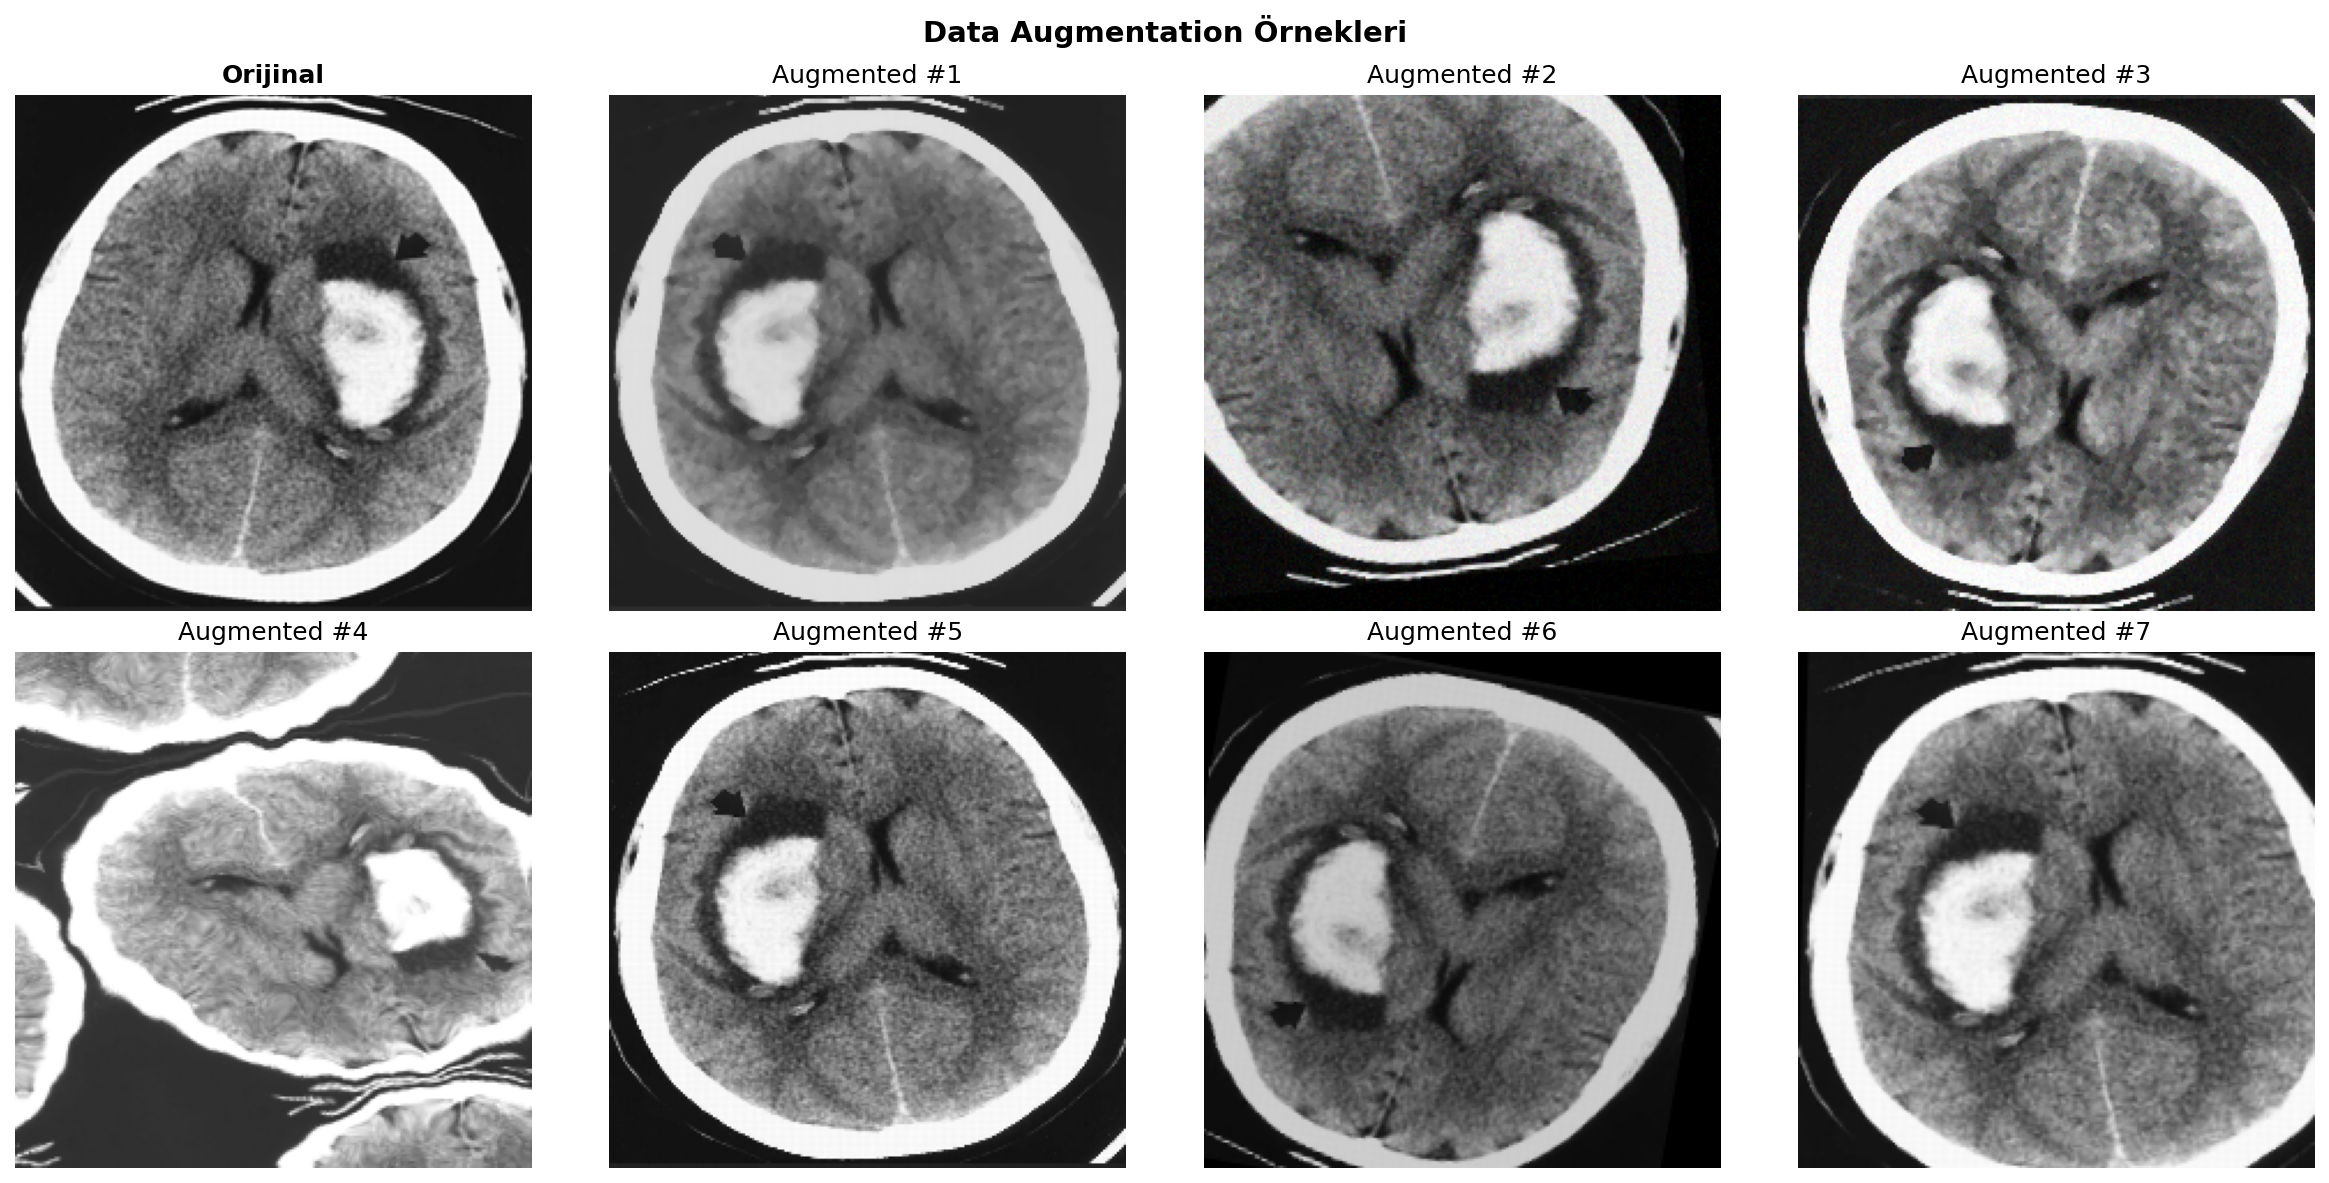
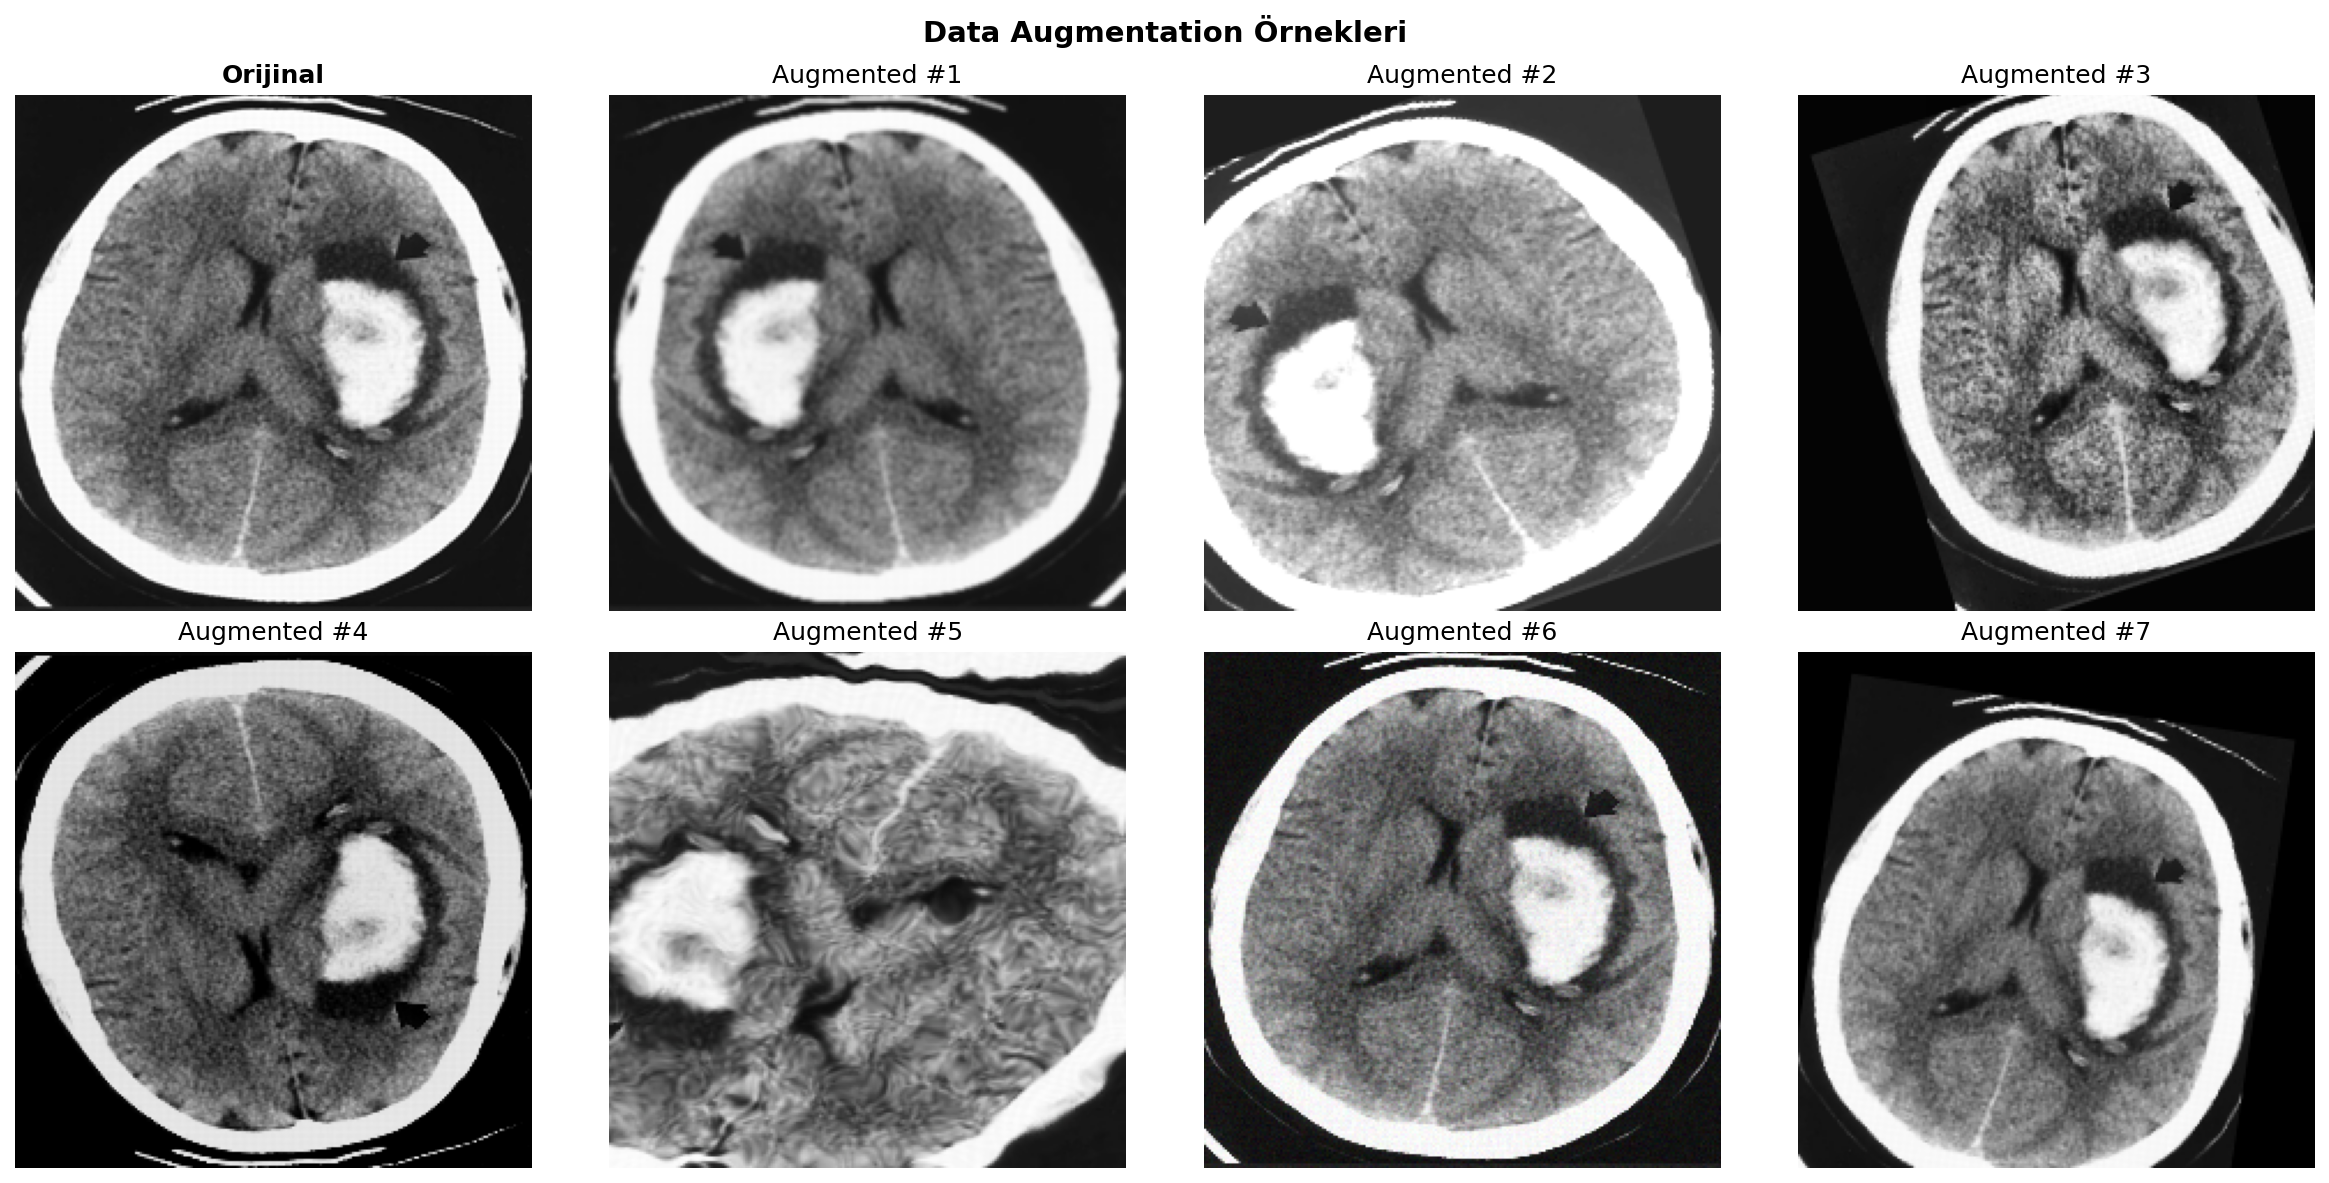
fix: update data split function to use numpy for improved performance

diff --git a/src/data_split.py b/src/data_split.py
@@ -42,8 +42,8 @@ def stratified_split(
     assert abs(train_ratio + val_ratio + test_ratio - 1.0) < 1e-6, \
         f"Oranlar toplamı 1.0 olmalı: {train_ratio + val_ratio + test_ratio}"
 
-    X = df["image_path"].values
-    y = df["label"].values
+    X = df["image_path"].to_numpy()
+    y = df["label"].to_numpy()
 
     # Adım 1: Test setini ayır (önce test → dokunulmaz)
     X_temp, X_test, y_temp, y_test = train_test_split(
